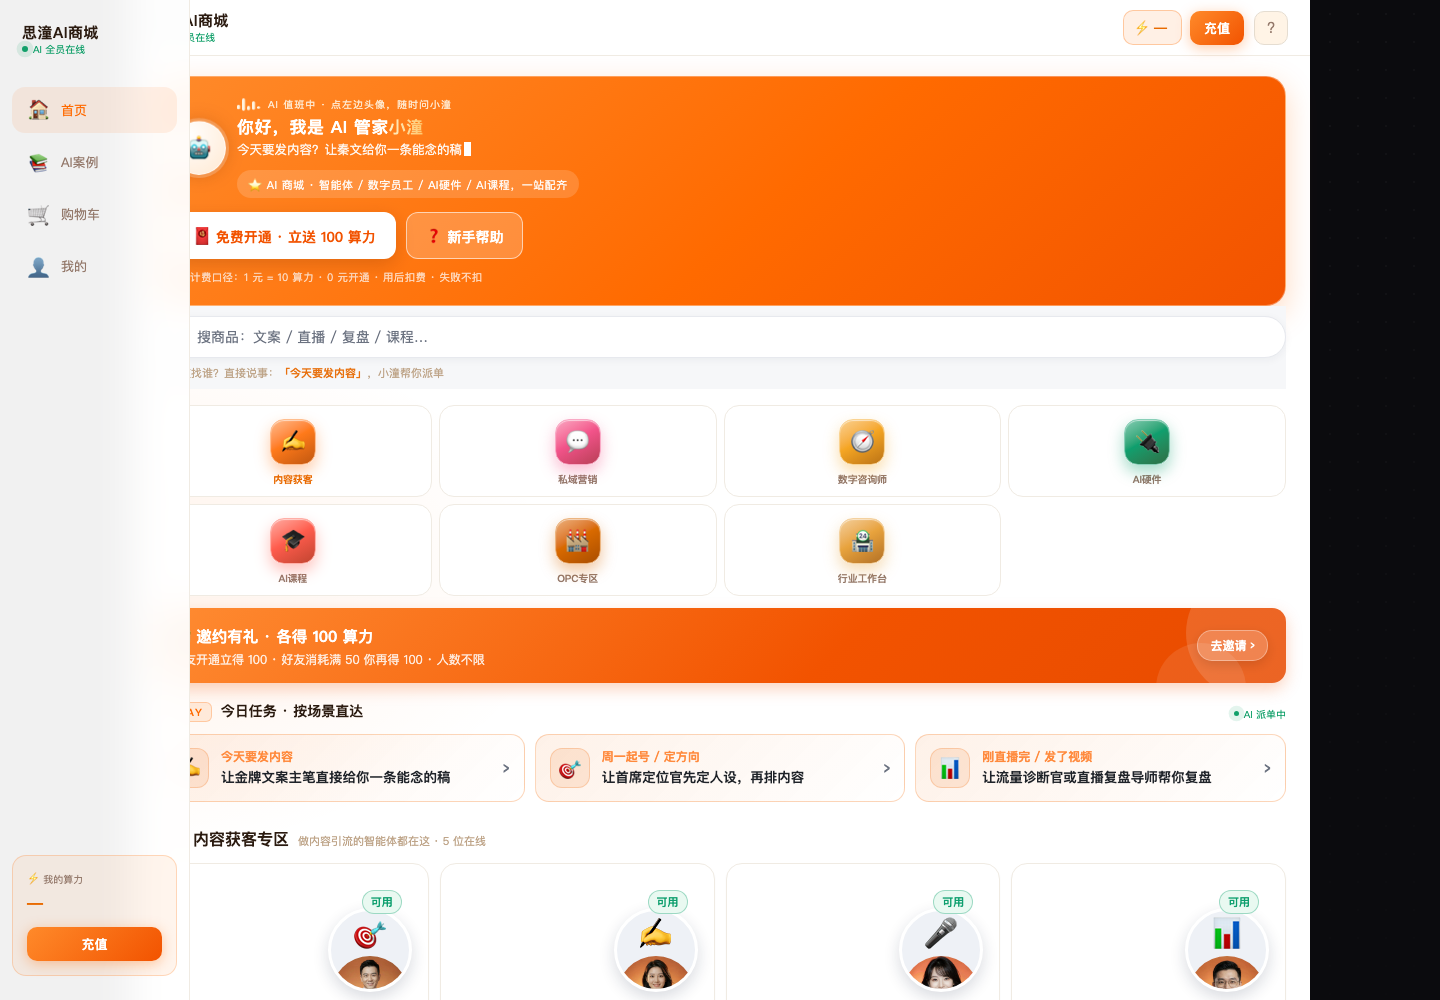
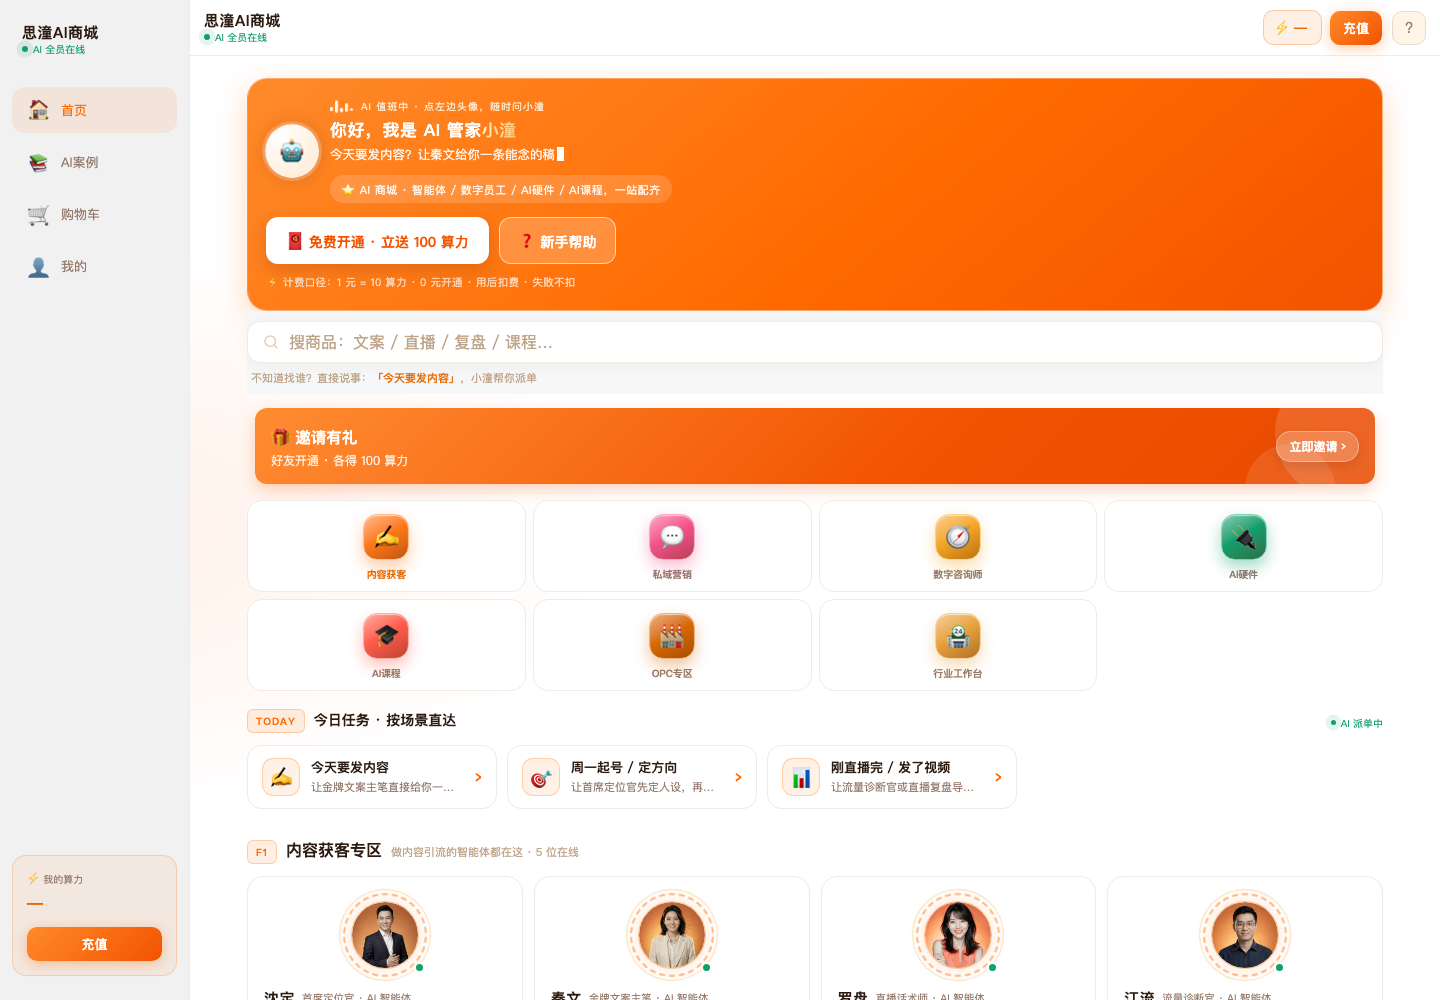
feat(web): 首页按原型数值逐元素对齐（员工卡/今日卡/搜索/横幅/容器偏移）
用无头浏览器同开原型与本地页，逐个量取 x/y/宽/高/字号/圆角/内距做差值修正：
- 容器：body{padding-left:190} + .page{max-width:1180} 口径修正（此前偏移 93px）；基础字号对齐 14px
- 员工卡：照原型 .emp 结构重写（AVA-wrap 双虚线旋环 + 状态点 + 名/职务「· AI 智能体」+ 简介 + 交付 pill + 价目行「⚡ N 算力/份 ≈ ¥9.9 · 0元开通 · 用后扣费」），清掉旧 .eco-p-body 的 padding38/gap4 与头像 transform:translateX(-34)，尺寸 276×278 与原型完全一致
- 今日任务卡 250×64（原型 .t-card，简介单行省略）；搜索框圆角13/内距11 14/输入16px；邀约横幅挪至金刚区之前并按 .ad-inv 尺寸（calc(100%-16px) × 76 × 圆角12）；楼层徽标行高、金刚瓷贴图标尺寸同步
- 验收：home-v328-final-verify.cjs 37/37 PASS + web typecheck PASS；比对脚本 measure-home-diff.cjs 保留用于后续回归

diff --git a/apps/web/src/styles/eco-mall.css b/apps/web/src/styles/eco-mall.css
@@ -1262,6 +1262,7 @@ body.eco-mall-body .app-wrap {
     #FFFFFF;
   color:#2B1B10;
   min-height:100vh;
+  font-size:14px;
 }
 
 /* ---- 顶栏 ---- */
@@ -1269,7 +1270,7 @@ body.eco-mall-body .app-wrap {
   position:sticky;top:0;z-index:100;display:flex;align-items:center;gap:10px;
   padding:10px 18px;background:rgba(255,255,255,.9);
   -webkit-backdrop-filter:blur(16px);backdrop-filter:blur(16px);
-  border-bottom:1px solid #F0EBE3;padding-left:22px;padding-right:22px;
+  border-bottom:1px solid #F0EBE3;padding-left:14px;padding-right:14px;
 }
 .eh-brand-txt{display:flex;flex-direction:column;line-height:1.25}
 .eh-brand-txt b{font-size:15px;letter-spacing:.5px;color:#2B1B10}
@@ -1281,7 +1282,7 @@ body.eco-mall-body .app-wrap {
 .eh-bal{display:flex;align-items:center;gap:4px;font-size:13px;font-weight:700;color:#E86A00;padding:6px 10px;border-radius:10px;background:rgba(255,106,0,.10);border:1px solid rgba(255,122,26,.35);white-space:nowrap}
 .eh-bal i{font-style:normal;font-size:10.5px;font-weight:600;color:#BEA488}
 .eh-mini{
-  position:relative;overflow:hidden;min-height:34px;padding:6px 14px;border-radius:10px;font-size:13px;font-weight:600;
+  position:relative;overflow:hidden;min-height:34px;padding:6px 13px;border-radius:10px;font-size:13px;font-weight:600;
   color:#fff;background:linear-gradient(135deg,#FF8A2A,#F25300);
   box-shadow:0 3px 14px rgba(255,106,0,.35);white-space:nowrap;cursor:pointer;
 }
@@ -1318,7 +1319,8 @@ body.eco-mall-body .app-wrap {
   .eh-nav-bal .v{font-size:16px;font-weight:800;color:#E86A00}
   .eh-nav-bal i{font-style:normal;font-size:10.5px;color:#BEA488}
   .eh-nav-bal .eh-mini{width:100%}
-  main.eh{margin-left:190px;max-width:1390px}
+  body.eco-mall-body .app-wrap.eh{margin-left:190px;max-width:none;padding:0}
+  .eh .eco-mall{max-width:1180px;margin:0 auto;padding:22px 22px 60px}
 }
 
 /* ---- 橙色 Hero ---- */
@@ -1344,7 +1346,7 @@ body.eco-mall-body .app-wrap {
 .eh-wave i:nth-child(3){height:4px;animation-delay:.3s}.eh-wave i:nth-child(4){height:9px;animation-delay:.45s}
 .eh-wave i:nth-child(5){height:5px;animation-delay:.6s}
 @keyframes ehWv{0%,100%{transform:scaleY(.4)}50%{transform:scaleY(1.15)}}
-.eh-hero-title{font-size:17px;font-weight:800;margin:4px 0 2px;letter-spacing:.5px;color:#FFF}
+.eh-hero-title{font-size:17px;font-weight:800;margin:4px 0 2px;letter-spacing:.5px;color:#FFF;line-height:1.6}
 .eh-hero-title em{font-style:normal;background:linear-gradient(90deg,#FFF0C8,#FFC66B);-webkit-background-clip:text;background-clip:text;-webkit-text-fill-color:transparent}
 .eh-hero-type{font-size:12.5px;color:rgba(255,255,255,.92);min-height:20px}
 .eh-caret{display:inline-block;width:7px;height:14px;background:#FFF;vertical-align:-2px;margin-left:2px;animation:ehBlink .8s step-end infinite}
@@ -1359,13 +1361,19 @@ body.eco-mall-body .app-wrap {
 .eh-ghost{min-height:44px;padding:11px 18px;border-radius:12px;font-size:14px;font-weight:600;cursor:pointer;color:#FFF;background:rgba(255,255,255,.2);border:1px solid rgba(255,255,255,.6)}
 .eh-hero-note{margin-top:9px;font-size:10.5px;color:rgba(255,255,255,.72);letter-spacing:.3px}
 
+/* ---- 搜索框（照原型 .search） ---- */
+.eh .eco-search{background:#fff;border:1px solid #F0EBE3;border-radius:13px;padding:11px 14px;box-shadow:0 3px 14px rgba(200,120,50,.08);display:flex;align-items:center;gap:9px}
+.eh .eco-search input{flex:1;border:0;outline:0;background:none;font-size:16px;color:#2B1B10;min-width:0}
+.eh .eco-search input::placeholder{color:#BEA488}
+.eh .eco-search-ico{flex:none;opacity:.55;color:#C9A98C}
+
 /* ---- 搜索提示行 ---- */
 .eh-search-hint{font-size:11px;color:#BEA488;margin-top:7px;padding-left:4px}
 .eh-search-hint b{color:#E8710F;font-weight:600}
 
 /* ---- 邀约有礼横幅（橙渐变，照原型 ad-inv） ---- */
-.eh .eco-invite-banner{background:linear-gradient(135deg,#FF8C32,#F25300 60%,#E84B00);border:0;box-shadow:0 6px 16px rgba(242,83,0,.25);color:#fff}
-.eh .eco-invite-banner .eco-banner-text b{color:#fff;font-size:15.5px}
+.eh .eco-invite-banner{width:calc(100% - 16px);margin:14px auto 0;height:76px;border-radius:12px;padding:0 16px;background:linear-gradient(135deg,#FF8C32,#F25300 60%,#E84B00);border:0;box-shadow:0 6px 16px rgba(242,83,0,.25);color:#fff;display:flex;align-items:center;justify-content:space-between;gap:10px;text-align:left}
+.eh .eco-invite-banner .eco-banner-text b{color:#fff;font-size:15.5px;display:block}
 .eh .eco-invite-banner .eco-banner-text span{color:rgba(255,255,255,.92)}
 .eh .eco-invite-banner .eco-banner-link{background:rgba(255,255,255,.2);border:1px solid rgba(255,255,255,.35);border-radius:15px;padding:6px 12px;font-size:12px;font-weight:700;color:#fff}
 
@@ -1377,7 +1385,7 @@ body.eco-mall-body .app-wrap {
 }
 .eh .eco-kk-item:hover{transform:translateY(-3px);border-color:var(--kk-tint)}
 .eh .eco-kk-ico{
-  position:relative;width:46px;height:46px;border-radius:14px;display:grid;place-items:center;font-size:22px;
+  position:relative;width:46px;height:46px;border-radius:14px;display:grid;place-items:center;font-size:24px;
   background:linear-gradient(150deg, color-mix(in srgb, var(--kk-tint) 52%, white) 0%, var(--kk-tint) 46%, color-mix(in srgb, var(--kk-tint) 62%, #5B1E00) 100%);
   border:1px solid color-mix(in srgb, var(--kk-tint) 50%, white);
   box-shadow:0 7px 16px color-mix(in srgb, var(--kk-tint) 40%, transparent), inset 0 1px 1px rgba(255,255,255,.6), inset 0 -3px 5px color-mix(in srgb, var(--kk-tint) 55%, rgba(0,0,0,.25));
@@ -1393,57 +1401,67 @@ body.eco-mall-body .app-wrap {
 .eh-floor-live{margin-left:auto;font-size:10px;color:#12A06A;display:inline-flex;align-items:center;gap:5px}
 .eh-floor-live i{width:5px;height:5px;border-radius:50%;background:#12A06A;animation:ehBreath 2s infinite}
 
+/* ---- 今日任务卡（照原型 .t-row/.t-card/.t-ico） ---- */
+.eh .eco-today{display:flex;gap:10px;overflow-x:auto;padding-bottom:4px;scrollbar-width:none}
+.eh .eco-today::-webkit-scrollbar{display:none}
+.eh .eco-today-item{flex:none;display:flex;align-items:center;gap:11px;padding:12px 14px;border-radius:14px;width:250px;flex:none;background:#fff;border:1px solid #F0EBE3;text-align:left;cursor:pointer;transition:transform .25s,border .25s,box-shadow .25s}
+@media(hover:hover){.eh .eco-today-item:hover{transform:translateY(-2px);border-color:rgba(255,122,26,.5);box-shadow:0 8px 24px rgba(255,106,0,.15)}}
+.eh .eco-today-ico{width:38px;height:38px;flex:none;border-radius:11px;display:grid;place-items:center;font-size:18px;background:rgba(255,140,50,.12);border:1px solid rgba(255,140,50,.35)}
+.eh .eco-today-text{flex:1;min-width:0}
+.eh .eco-today-title{font-size:13px;font-weight:700;color:#2B1B10;display:block;line-height:1.35}
+.eh .eco-today-hint{font-size:11px;color:#94796B;display:block;font-weight:400;line-height:1.4;white-space:nowrap;overflow:hidden;text-overflow:ellipsis}
+.eh .eco-today-go{color:#FF6A00;font-size:18px;flex:none}
+
 /* ---- 楼层头（F 徽标 + 基线对齐） ---- */
 .eh .eco-floor-head{display:flex;align-items:baseline;gap:9px;flex-wrap:wrap;margin-bottom:12px}
 .eh .eco-floor-title{display:inline-flex;align-items:baseline;gap:9px}
 .eh .eco-floor-title h2{font-size:16px;font-weight:800;margin:0;color:#2B1B10}
-.eh .eco-floor-no{font-size:10px;font-weight:800;letter-spacing:1px;color:#FF6A00;padding:3px 8px;border-radius:6px;background:rgba(255,122,26,.12);border:1px solid rgba(255,122,26,.3);white-space:nowrap}
+.eh .eco-floor-no{font-size:10px;font-weight:800;letter-spacing:1px;color:#FF6A00;padding:3px 8px;border-radius:6px;background:rgba(255,122,26,.12);border:1px solid rgba(255,122,26,.3);white-space:nowrap;line-height:1.6}
 .eh .eco-floor-sub{font-size:11px;color:#BEA488}
 
-/* ---- 员工卡（原型 .emp：白卡 + 虚线旋环头像 + 底部价格行） ---- */
+/* ---- 员工卡（照原型 .emp / .emp-ava-wrap / .emp-price 1:1） ---- */
 .eh .eco-products{display:grid;grid-template-columns:1fr;gap:11px}
 @media(min-width:640px){.eh .eco-products{grid-template-columns:repeat(2,1fr)}}
 @media(min-width:960px){.eh .eco-products{grid-template-columns:repeat(3,1fr)}}
 @media(min-width:1180px){.eh .eco-products{grid-template-columns:repeat(4,1fr)}}
 .eh .eco-product{
-  display:flex;align-items:center;gap:13px;padding:14px;border-radius:16px;
-  background:#fff;border:1px solid #F0EBE3;cursor:pointer;overflow:hidden;position:relative;
+  position:relative;display:flex;align-items:center;gap:13px;padding:14px;border-radius:16px;
+  background:#fff;border:1px solid #F0EBE3;cursor:pointer;overflow:hidden;text-align:left;
   transition:transform .28s,border .28s,box-shadow .28s;
 }
 @media(min-width:960px){.eh .eco-product{flex-direction:column;align-items:stretch;gap:0;padding:16px}}
 @media(hover:hover){.eh .eco-product:hover{transform:translateY(-4px);border-color:rgba(255,122,26,.45);box-shadow:0 12px 32px rgba(170,90,20,.16), 0 0 24px rgba(255,106,0,.12)}}
-.eh .eco-p-img{background:none !important;border:0 !important;height:auto !important;min-height:0 !important;display:grid;place-items:center;position:relative;margin-bottom:0}
-@media(min-width:960px){.eh .eco-p-img{margin-bottom:10px}}
-.eh .eco-ava{width:58px;height:58px;position:relative}
-@media(min-width:960px){.eh .eco-ava{width:84px;height:84px}}
-.eh .eco-ava::before{content:"";position:absolute;inset:-7px;border:2px dashed rgba(255,122,26,.55);border-radius:50%;animation:ehSpin 9s linear infinite}
-.eh .eco-ava::after{content:"";position:absolute;inset:-11px;border:1px solid rgba(245,176,74,.45);border-radius:50%;animation:ehSpin 14s linear infinite reverse}
+.eh .eco-p-img{position:relative;width:58px;height:58px;flex:none;margin:0 auto 10px;display:grid;place-items:center;background:none !important;border:0 !important;min-height:0 !important}
+@media(min-width:960px){.eh .eco-p-img{width:84px;height:84px}}
+.eh .eco-p-img::before{content:"";position:absolute;inset:0;border:2px dashed rgba(255,122,26,.55);border-radius:50%;animation:ehSpin 9s linear infinite}
+.eh .eco-p-img::after{content:"";position:absolute;inset:-4px;border:1px solid rgba(245,176,74,.45);border-radius:50%;animation:ehSpin 14s linear infinite reverse}
 @keyframes ehSpin{to{transform:rotate(360deg)}}
+.eh .eco-ava{
+  position:relative;z-index:1;width:46px;height:46px;border-radius:50%;overflow:hidden;display:grid;place-items:center;
+  background:radial-gradient(circle at 30% 25%,#FFF6EC,#FFE5CC);border:1px solid rgba(232,134,43,.4);box-shadow:0 0 16px rgba(255,122,26,.22);
+}
+@media(min-width:960px){.eh .eco-ava{width:68px;height:68px}}
 .eh .eco-emoji{font-size:22px}
 @media(min-width:960px){.eh .eco-emoji{font-size:32px}}
-.eh .eco-ava img{width:100%;height:100%;object-fit:cover;border-radius:50%;position:relative;z-index:1}
-.eh .eco-badge{position:absolute;top:10px;right:10px;z-index:2}
-.eh .eco-badge.ok{background:#E9F9F1;color:#0E9F6E;border:1px solid rgba(14,159,110,.35)}
-.eh .eco-badge.dev{background:#FFF6E6;color:#D97706;border:1px solid rgba(217,119,6,.35)}
-.eh .eco-p-body{flex:1;min-width:0;display:flex;flex-direction:column}
+.eh .eco-ava img{width:100%;height:100%;object-fit:cover;border-radius:50%}
+.eh .eco-p-dot{position:absolute;right:2px;bottom:4px;width:11px;height:11px;border-radius:50%;border:2px solid #fff;z-index:2}
+.eh .eco-p-dot.ok{background:#12A06A}
+.eh .eco-p-dot.dev{background:#F59E0B}
+.eh .eco-p-body{flex:1;min-width:0;width:100%;display:flex;flex-direction:column;padding:0 !important;gap:0 !important;margin:0}
+.eh .eco-product,.eh .eco-p-body,.eh .eco-p-top,.eh .eco-p-name,.eh .eco-p-role,.eh .eco-p-desc,.eh .eco-p-tag,.eh .eco-p-price{line-height:1.6}
+.eh .eco-p-img>.eco-ava{position:absolute !important;inset:6px !important;width:auto !important;height:auto !important;margin:auto !important;border-radius:50%;transform:none !important}
+@media(min-width:960px){.eh .eco-p-img>.eco-ava{inset:8px !important}}
+.eh .eco-p-price{font-size:11px;white-space:nowrap;overflow:hidden;text-overflow:ellipsis}
+.eh .eco-p-price i{font-size:10px;margin-left:4px}
 @media(min-width:960px){.eh .eco-p-body{min-height:150px}}
+.eh .eco-p-top{display:flex;align-items:center;gap:7px;flex-wrap:wrap}
 .eh .eco-p-name{font-size:15px;font-weight:800;color:#2B1B10}
-.eh .eco-p-shop{font-size:10.5px;color:#94796B}
-.eh .eco-p-desc{font-size:12px;color:#94796B;margin:3px 0 0;display:-webkit-box;-webkit-line-clamp:2;-webkit-box-orient:vertical;overflow:hidden}
+.eh .eco-p-role{font-size:10.5px;color:#94796B;white-space:nowrap}
+.eh .eco-p-desc{display:block;font-size:12px;color:#94796B;margin-top:3px;display:-webkit-box;-webkit-line-clamp:2;-webkit-box-orient:vertical;overflow:hidden}
 @media(min-width:960px){.eh .eco-p-desc{min-height:36px}}
-.eh .eco-p-tag{display:inline-block;font-size:10.5px;padding:3px 9px;border-radius:7px;color:#D96A00;background:rgba(255,140,50,.1);border:1px solid rgba(255,140,50,.35)}
-.eh .eco-p-tags{margin-top:7px}
-.eh .eco-p-buy{display:flex;flex-direction:column;align-items:flex-end;gap:7px;flex:none;margin-top:8px}
-@media(min-width:960px){.eh .eco-p-buy{flex-direction:row;align-items:center;justify-content:space-between;margin-top:auto}}
-.eh .eco-p-price b{font-size:18px;color:#E86A00;font-weight:800}
-.eh .eco-p-unit{font-size:10.5px;color:#BEA488}
-.eh .eco-p-btn{
-  min-height:34px;padding:7px 16px;border-radius:10px;font-size:13px;font-weight:700;cursor:pointer;
-  color:#fff;background:linear-gradient(135deg,#FF8A2A,#F25300);box-shadow:0 4px 14px rgba(255,106,0,.3);border:0;
-}
-.eh .eco-p-soon{font-size:11px;color:#D97706;padding:5px 10px;border-radius:8px;background:rgba(255,176,32,.1);border:1px solid rgba(255,176,32,.3);white-space:nowrap}
-.eh .eco-p-cart{min-height:34px;padding:7px 12px;border-radius:10px;font-size:12.5px;font-weight:700;cursor:pointer;color:#E86A00;background:rgba(255,106,0,.1);border:1px solid rgba(255,122,26,.35)}
-.eh .eco-p-cart.primary{color:#fff;background:linear-gradient(135deg,#FF8A2A,#F25300);border:0;box-shadow:0 4px 14px rgba(255,106,0,.3)}
+.eh .eco-p-tag{display:inline-block;align-self:flex-start;margin-top:7px;font-size:10.5px;padding:3px 9px;border-radius:7px;color:#D96A00;background:rgba(255,140,50,.1);border:1px solid rgba(255,140,50,.35)}
+.eh .eco-p-price{display:block;margin-top:auto;padding-top:7px;font-size:12.5px;font-weight:700;color:#E86A00}
+.eh .eco-p-price i{font-style:normal;font-size:10.5px;font-weight:400;color:#BEA488}
 
 /* ---- 即将上线分隔条 ---- */
 .eh .eco-divider{display:flex;align-items:center;gap:12px;margin:16px 0 12px;font-size:11px;color:#D97706;letter-spacing:2px}

diff --git a/apps/web/src/marketplace/EcoMallHomePage.tsx b/apps/web/src/marketplace/EcoMallHomePage.tsx
@@ -28,6 +28,18 @@ const KINGKONG: Array<{ floor: FloorId; label: string; icon: string; tint: strin
   { floor: "floor-industry", label: "行业工作台", icon: "🏪", tint: "#E8A33D" }
 ];
 
+/** 交付单位（照原型 emp-price：定位=份 / 直播=场 / 文案·诊断·选题=次 / 私域=条）。 */
+const UNIT_BY_KEY: Record<string, string> = {
+  "ip-position": "份",
+  copywriter: "次",
+  "video-diag": "次",
+  "live-host": "场",
+  topic: "次",
+  "live-coach": "场",
+  private: "条",
+  "sales-coach": "次"
+};
+
 /** Hero 打字机台词（原型 heroType 演示口径）。 */
 const TYPE_LINES = [
   "今天要发内容？让秦文给你一条能念的稿",
@@ -112,6 +124,8 @@ function EmployeeProduct({
   const hook = current?.hook ?? employee.hookBase;
   const deliver = shortDeliver(current?.deliver ?? "");
 
+  const unit = UNIT_BY_KEY[employee.key] ?? "次";
+  const cny = ppu != null ? (ppu / 10).toFixed(ppu % 10 === 0 ? 0 : 1) : "—";
   return (
     <article
       className={`eco-product ${ok ? "is-ok" : "is-dev"}`}
@@ -120,36 +134,18 @@ function EmployeeProduct({
     >
       <div className="eco-p-img">
         <EcoAvatar icon={employee.icon} img={employeeImagePath(employee)} />
-        <span className={`eco-badge ${ok ? "ok" : "dev"}`}>{ok ? "可用" : "开发中"}</span>
+        <i className={`eco-p-dot ${ok ? "ok" : "dev"}`} />
       </div>
       <div className="eco-p-body">
-        <div className="eco-p-name">{employeePersonaLabel(employee.capability)}</div>
-        <div className="eco-p-shop">{employee.role} · 数字员工</div>
-        <p className="eco-p-desc">{hook}</p>
-        {deliver ? (
-          <div className="eco-p-tags">
-            <span className="eco-p-tag">{deliver}</span>
-          </div>
-        ) : null}
-        <div className="eco-p-buy">
-          {ok ? (
-            <>
-              <span className="eco-p-price">
-                {ppu != null ? (
-                  <>
-                    <b>{ppu}</b>
-                    <span className="eco-p-unit">算力/次</span>
-                  </>
-                ) : (
-                  <span className="eco-p-price-flex">按次计费</span>
-                )}
-              </span>
-              <button type="button" className="eco-p-btn">去使用</button>
-            </>
-          ) : (
-            <span className="eco-p-soon">即将上线</span>
-          )}
+        <div className="eco-p-top">
+          <b className="eco-p-name">{employeePersonaLabel(employee.capability)}</b>
+          <span className="eco-p-role">{employee.role} · AI 智能体</span>
         </div>
+        <span className="eco-p-desc">{hook}</span>
+        {deliver ? <span className="eco-p-tag">{deliver}</span> : null}
+        <span className="eco-p-price">
+          ⚡ {ppu ?? "—"} 算力/{unit} <i>≈ ¥{cny} · 0元开通 · 用后扣费</i>
+        </span>
       </div>
     </article>
   );
@@ -625,6 +621,15 @@ export function EcoMallHomePage() {
           </div>
         ) : (
           <>
+            {/* 广告位（原型：当前仅邀约有礼） */}
+            <button type="button" className="eco-banner eco-invite-banner" onClick={() => setShowInvite(true)}>
+              <div className="eco-banner-text">
+                <b>🎁 邀请有礼</b>
+                <span>好友开通 · 各得 100 算力</span>
+              </div>
+              <span className="eco-banner-link">立即邀请 ›</span>
+            </button>
+
             <nav className="eco-kingkong" aria-label="商城楼层导航">
               {KINGKONG.map((item) => (
                 <button
@@ -639,15 +644,6 @@ export function EcoMallHomePage() {
                 </button>
               ))}
             </nav>
-
-            {/* 广告位（原型：当前仅邀约有礼） */}
-            <button type="button" className="eco-banner eco-invite-banner" onClick={() => setShowInvite(true)}>
-              <div className="eco-banner-text">
-                <b>🎁 邀约有礼 · 各得 100 算力</b>
-                <span>好友开通立得 100 · 好友消耗满 50 你再得 100 · 人数不限</span>
-              </div>
-              <span className="eco-banner-link">去邀请 ›</span>
-            </button>
 
             {renderTodayStrip()}
 
